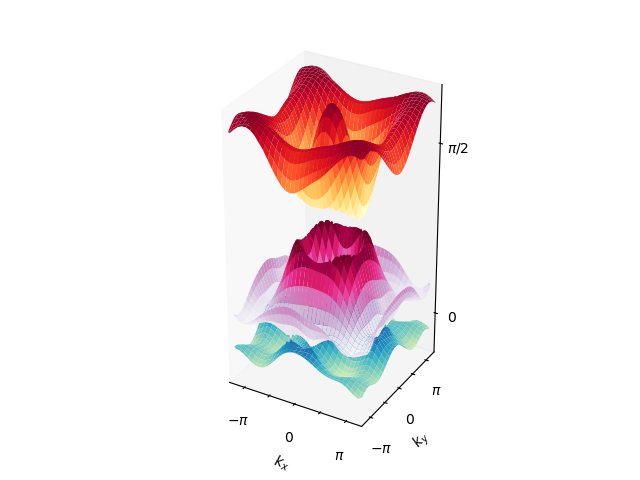
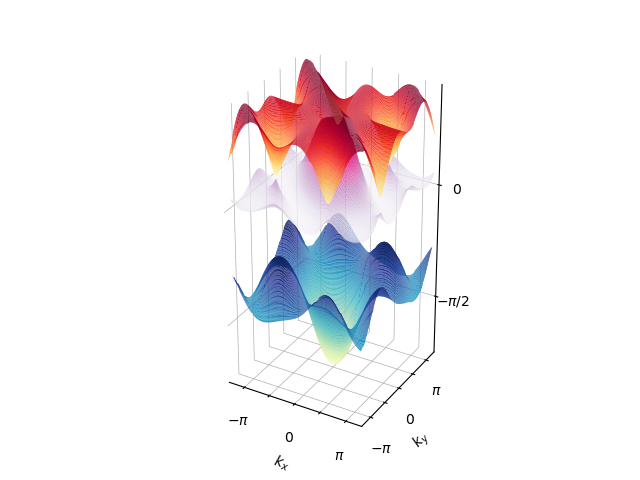
ADSp1

Changed region(s): [[0.3438, 0.125, 0.7188, 0.875], [0.6875, 0.375, 0.7188, 0.4062], [0.6875, 0.2812, 0.7188, 0.3125]]

diff --git a/ADSp1.py b/ADSp1.py
@@ -39,7 +39,6 @@ every step.
 import numpy as np
 from scipy import linalg as la
 import matplotlib.pyplot as plt
-import plotly.graph_objects as go
 from matplotlib import cm
 
 from tight_binding.bandstructure import sort_energy_grid, plot_bandstructure2D
@@ -51,18 +50,18 @@ from tight_binding.topology import gauge_fix_grid
 plot = True
 euler = False
 
-num_points = 101
+num_points = 100
 num_steps = 100
-lowest_quasi_energy = -np.pi/2
-r = 2
-c = 2
+lowest_quasi_energy = -np.pi
+r = 1
+c = 1
 
-omega = 9
-dJ1x = -0.2
-dJ1y = 0.2
+omega = 20
+dJ1x = 0
+dJ1y = 0
 dJ2 = 0
-dA = 3
-dC = -3
+dA = 0
+dC = 0
 
 dB = -dA-dC
 J1x = 1+dJ1x
